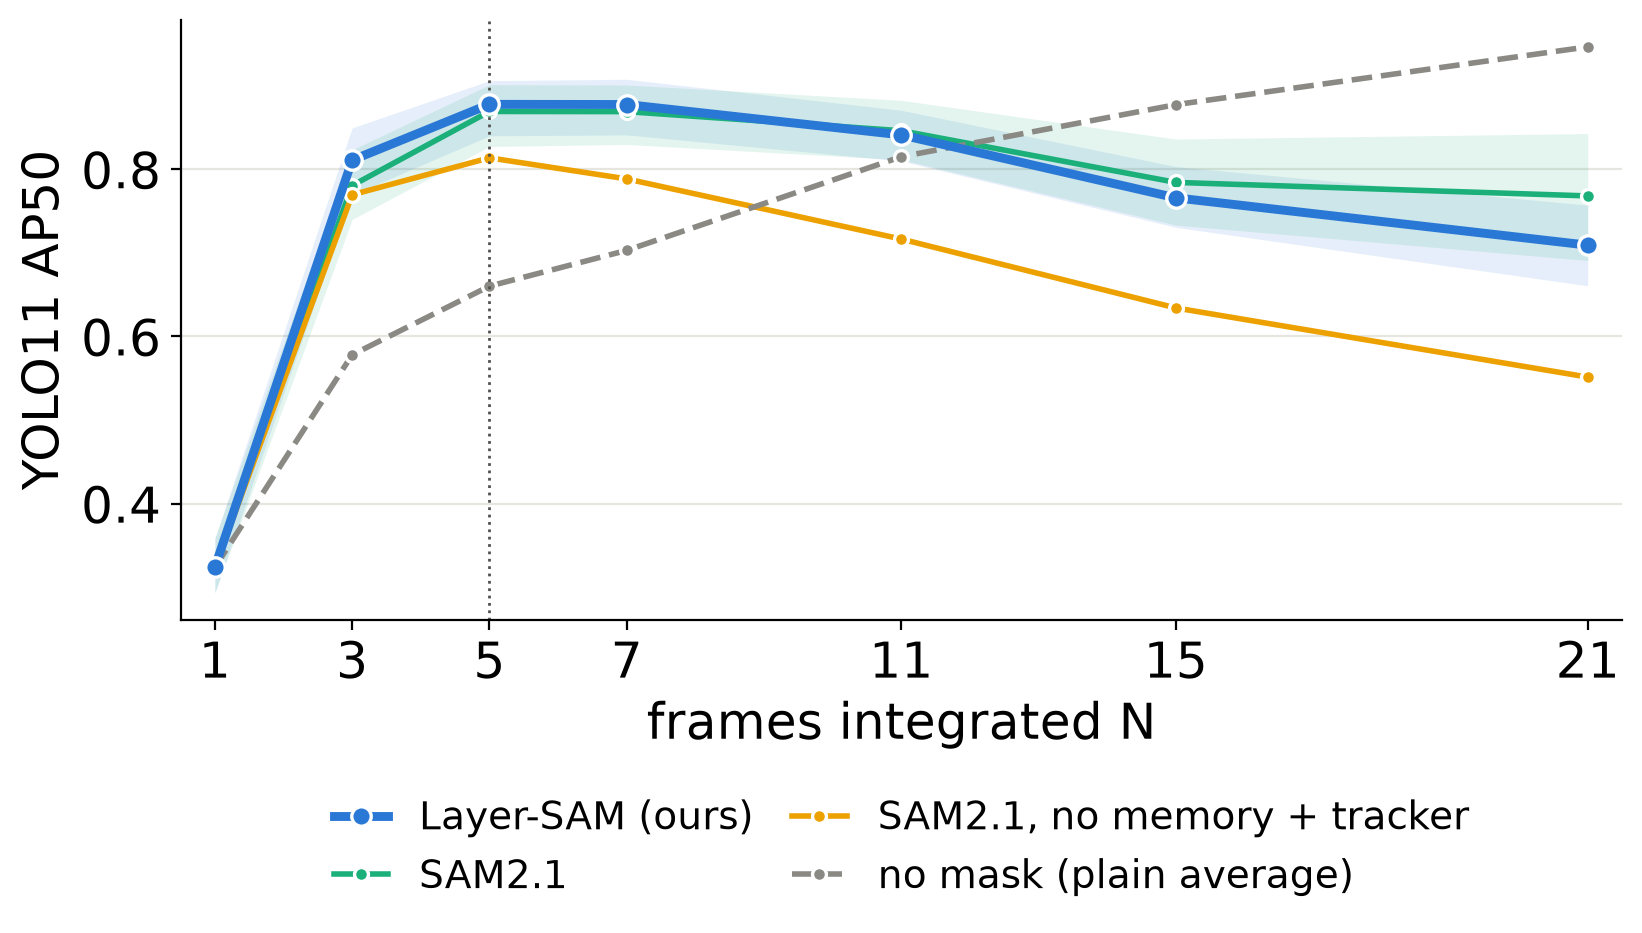
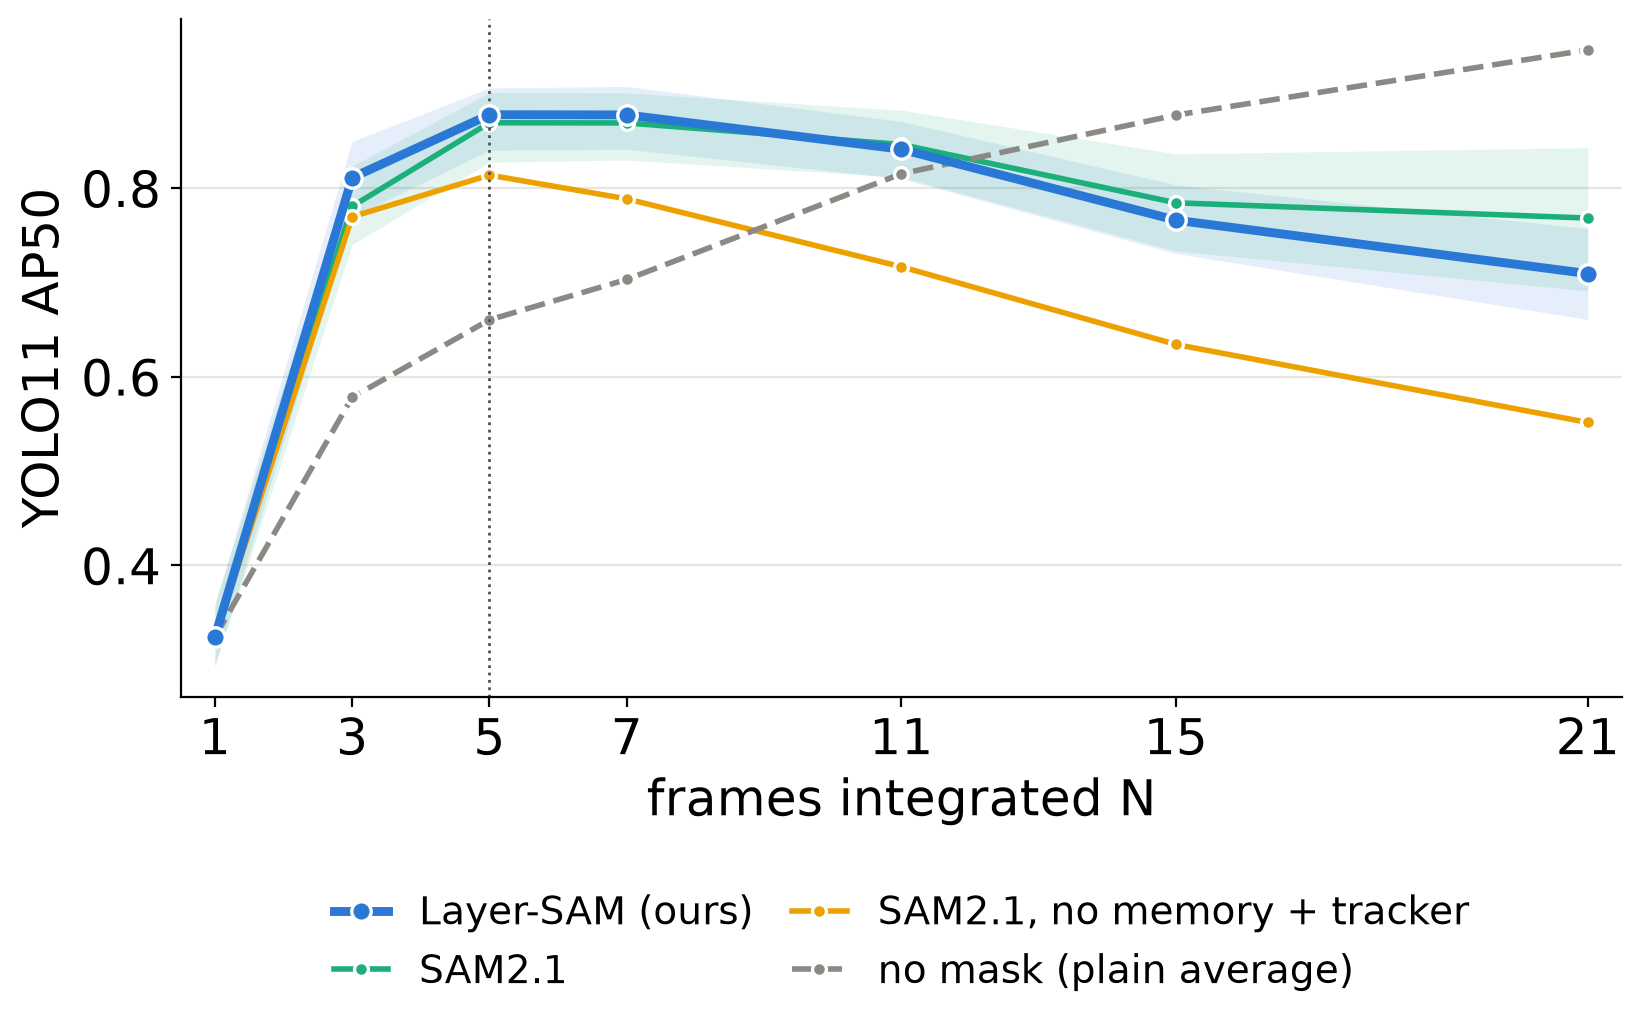
Poster: back to section 6 at the bottom of column 2; column-3 plots enlarged to fill the column

diff --git a/docs/poster/poster_latex/NFO_VOS_inhalt.tex b/docs/poster/poster_latex/NFO_VOS_inhalt.tex
@@ -119,11 +119,7 @@ frame, person, visible target, loss weights.}
 more than false alarms. Hidden pixels next to visible fragments (yellow) are not penalised; far hidden ones (red)
 count as background, at lower weight.
 
-\Unter{Masks: SAM2.1 vs Layer-SAM (scene 4)}
-\Bild{plots/nfo/qual.png}
-
 %======================================================================= column 3: results
-\columnbreak
 \par\noindent\begin{minipage}{\linewidth}\raggedright   % heading + table + caption stay together
 \Abschnitt{6\quad Results on NFO-VOS}
 
@@ -146,6 +142,9 @@ prompt). Recognition IoU: top YOLO detection vs hand-drawn box.}
 \Merke{Without memory, Layer-SAM matches or beats every SAM2.1 memory variant.}
 \end{minipage}\par
 
+\Unter{Masks: SAM2.1 vs Layer-SAM (scene 4)}
+\Bild{plots/nfo/qual.png}
+
 \Unter{Does the segmentation degrade over time?}
 \Bild{plots/nfo/masksize.png}
 \Unterschrift{Mask area / box area, relative to frame 6 (median, 95\,\% CI). Prompted only at the start, memory masks
@@ -156,10 +155,9 @@ shrink (0.76$\times$ Layer-SAM after frame 30); with tracker prompts they keep t
 \Unterschrift{From SAM2.1 to Layer-SAM, one change per row; lines: 95\,\% CI, dots: 3 seeds. Without the integral image, the
 adapter gets the empty scene in its place.}
 
-
 \Unter{Recognition vs.\ frames integrated}
 \Bild{plots/nfo/recogN.png}
-\Unterschrift{YOLO11 AP50 (Layer-SAM: one seed; SAM2.1 rows as in the table). Good masks matter for short integrations
-(N\,$\le$\,7: noisy masks lose); for long ones the plain average wins and masks become unnecessary.}
+\Unterschrift{YOLO11 AP50 (Layer-SAM: one seed). Good masks matter for short integrations (N\,$\le$\,7: noisy masks
+lose); for long ones the plain average wins and masks become unnecessary.}
 
 \end{multicols*}

diff --git a/benchmark/nfo_vos/tools/poster_figures.py b/benchmark/nfo_vos/tools/poster_figures.py
@@ -192,7 +192,7 @@ def ablation():
     """Rows: ingredients added one at a time; per row one bar per question (3-seed means). Line: 95% CI of the single
     comparison (none on this table, all steps from the SAM2.1 video baseline); dots: the three seeds (integral image)."""
     qs = (('tracking AUC', '#1f4e8c'), ('segmentation J', '#28aa3c'), ('recognition conf', '#8a5cc2'))
-    fig, ax = plt.subplots(figsize=(9.3, 4.9))
+    fig, ax = plt.subplots(figsize=(9.3, 5.3))
     h = 0.26
     for r, (name, d, ci, seeds) in enumerate(STEPS):
         for m, (q, col) in enumerate(qs):
@@ -229,7 +229,7 @@ def masksize():
     r = MF.late_ratio(F, 'b0-c2', list(F['b0-c2']))
     m, lo, hi, n, g = MF.boot_mean(r, list(r))
     print(f'SAM2.1 video / ours mask size, k >= {MF.K1}: x{np.exp(m):.2f} [{np.exp(lo):.2f}, {np.exp(hi):.2f}] ({n} clips)')
-    fig, ax = plt.subplots(figsize=(9.3, 5.0))
+    fig, ax = plt.subplots(figsize=(9.3, 5.4))
     # legend: fitted change of mask size per 10 frames (mask_fill trends, k = 6...end, mean over the 32 crossings)
     S = MF.trends(F)
     pct = lambda a: f'{(np.exp(MF.boot_mean(S[a], list(S[a]))[0]) - 1) * 100:+.0f}%'
@@ -270,7 +270,7 @@ def recogN(ns=(1, 3, 5, 7, 11, 15, 21)):
             bs = [ap50([d for i in b for d in win[ids[i]]]) for b in boot]
             res[a, N] = (ap50([d for i in ids for d in win[i]]), *np.quantile(bs, [.025, .975]))
             print(f'N={N} {a:10s} AP50 {res[a, N][0]:.3f} [{res[a, N][1]:.3f}, {res[a, N][2]:.3f}]')
-    fig, ax = plt.subplots(figsize=(9.3, 3.9))
+    fig, ax = plt.subplots(figsize=(9.3, 4.4))
     for a, label, col, ls in RECOG_ARMS:
         y = np.array([res[a, N] for N in ns])
         if a in ('adapter-pf', 'b0-c2'):
